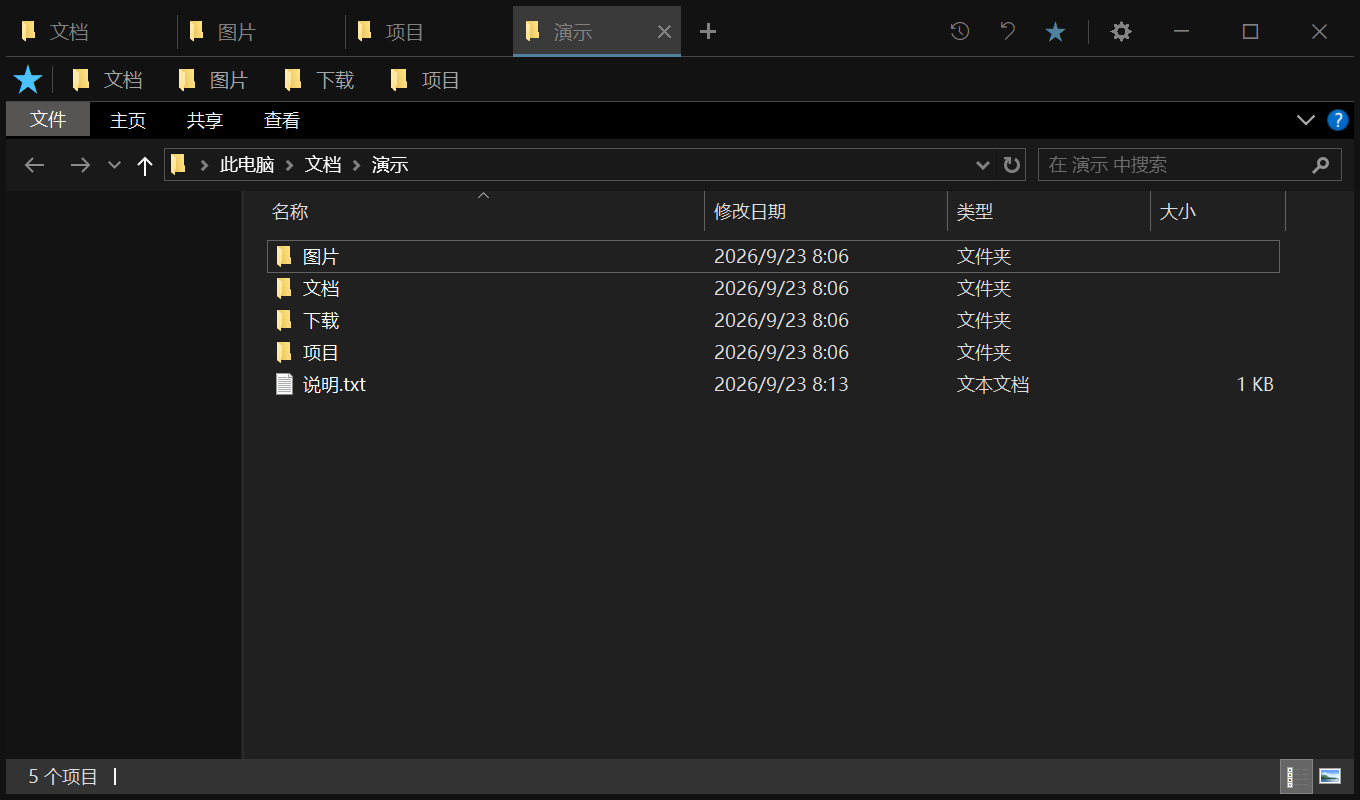
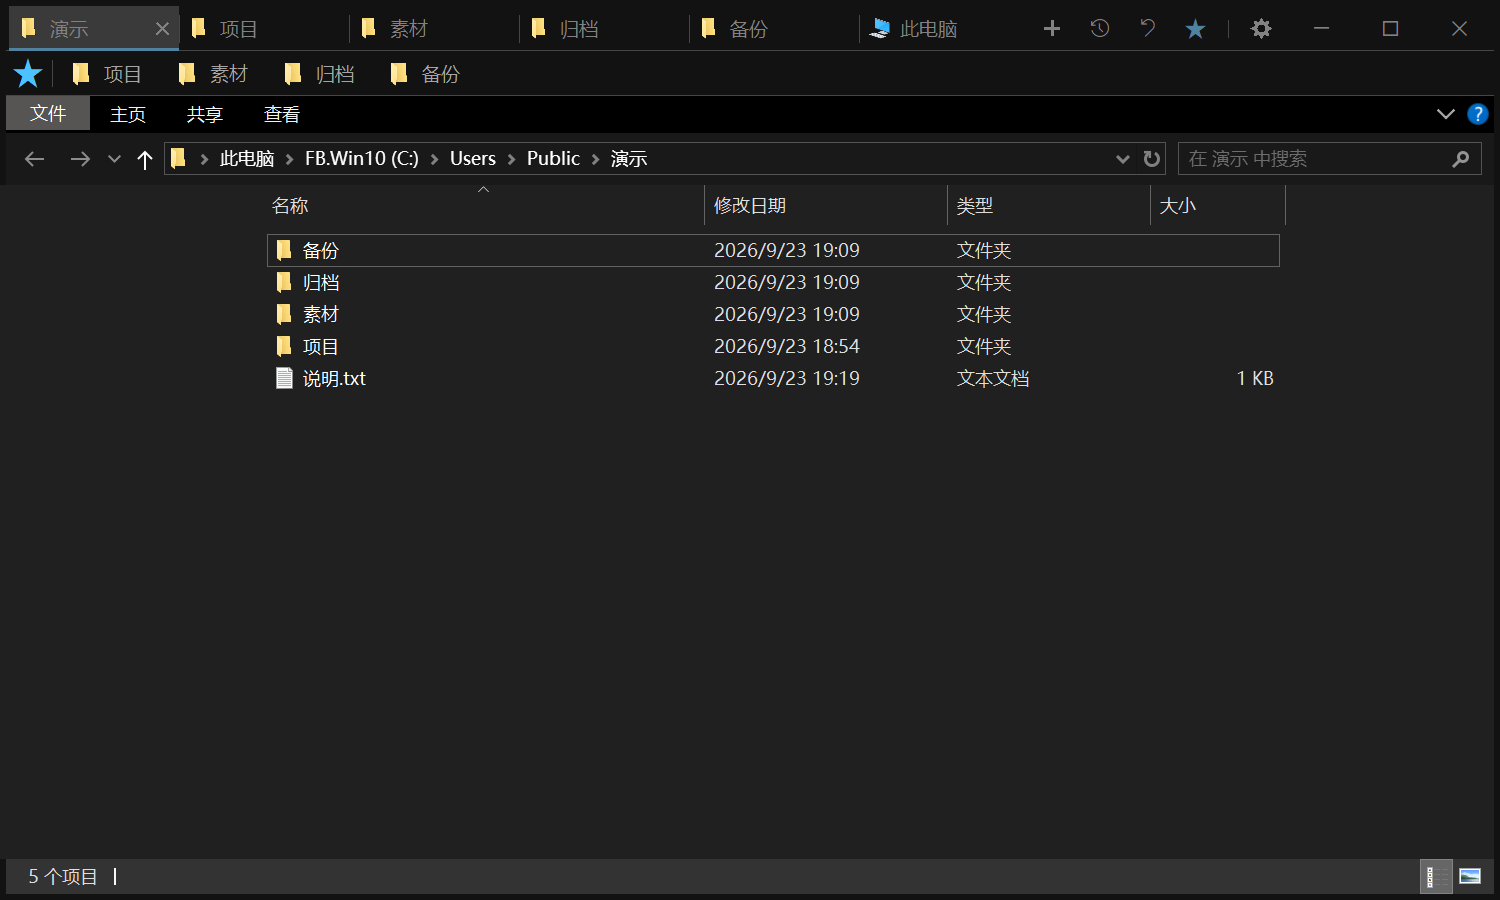
文档：README 补「两种布局：横排标签条 / 垂直侧边栏」+ 三张截图重出（v1.13.1）
- 新增一节讲垂直侧边栏的折叠态 / 展开态、半透明、Ctrl+Shift+B 临时摊开；主要特性、快捷键表、
  滚轮表、设置表同步补 vtabs / vtabscollapse / vpanealpha 与 winsize、Ctrl+Shift+,
- 截图重出（原来那张把 BGRA 当 RGBA 写，红蓝通道互换）+ 新增竖排展开 / 折叠两张；
  换成中性示例目录并抹掉导航窗格
- CHANGELOG 更正 v1.13.0 里对折叠态的描述（中间是只剩图标的标签行，不是「只显示两颗」）

diff --git a/CHANGELOG.md b/CHANGELOG.md
@@ -19,6 +19,9 @@
 - `ExplorerHost.Adopt` 撞上 shell 的窗口时把它还原成可见，不再吞掉。
 - `tools/build_task.bat` 加了一个可选的构建后钩子位（`tools\post_build.local.bat`，被 `.gitignore` 挡住）：
   本机可以挂自己的镜像 / 部署步骤，仓库本身保持干净。
+- 文档：README 补上「两种布局」（横排标签条 / 垂直侧边栏）一节 + 三张截图
+  （横排、竖排折叠态、竖排展开态），设置表补 `winsize` / `vtabs` / `vtabscollapse` / `vpanealpha`
+  四项；主截图改成不带本机信息的中性示例目录。
 
 ## [v1.13.0] - 2026-09-23 17:00
 
@@ -27,8 +30,9 @@
 **1 / 垂直侧边栏（原「垂直标签页」，Ctrl+Shift+,）**
 - 顶部那条标签条**整条隐藏**，窗口最上一行直接是内容；工具、加号、标签、书签段、窗口按钮全归左侧窗格
   （窗格是 `TabStrip` 的第二个实例，`MirrorFrom` 跟横排**共用同一份标签列表**，不做副本同步）。
-- 折叠态**只显示两颗**：顶上一个「＋」、底下一条「×」，其余一律不画也点不到；窗格宽 30 逻辑像素
-  （跟横排标签条高、书签段标准高是**同一个数**）。两态共用同一条中线，鼠标进窗格摊开时 ＋ / × **原地不动**。
+- 折叠态窗格宽 30 逻辑像素（跟横排标签条高、书签段标准高是**同一个数**）：顶上「＋」、底下「×」，
+  中间是**只剩图标的标签行**（窄到放不下名字，只画图标）；工具行和书签段这时不画也点不到。
+  两态共用同一条中线，鼠标进窗格摊开时 ＋ / × **原地不动**。
 - 展开态窗口按钮**左对齐**，顺序「关闭 / 放大 / 缩小」，并去掉按钮上方那条分隔条。
 - 书签段收进窗格，可展开/收起（点「★ 书签」那行切换，默认收起、记住上次），单独滚动。
 - 摊开盖在内容上时**背景半透明**（新设置项 `vpanealpha`，0~100，默认 80）：摊开前先抓一张屏幕底图，
